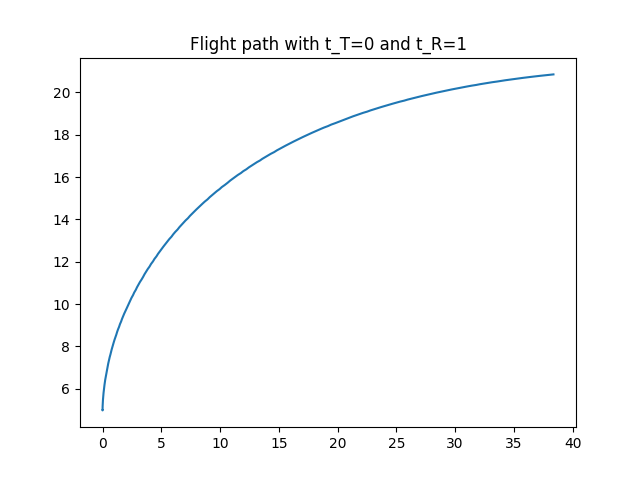
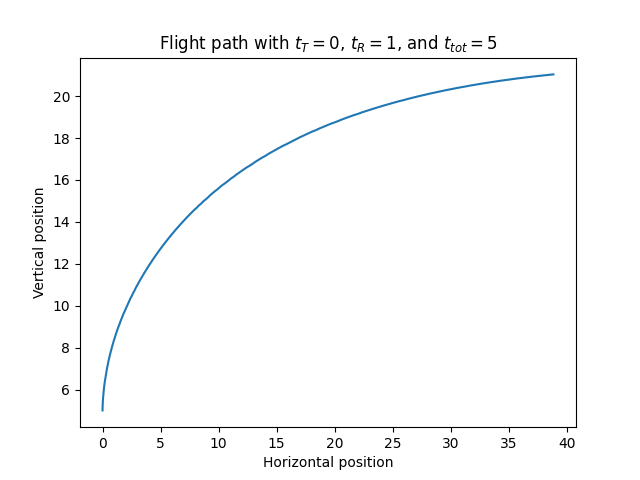
Make flight simulation runner reusable
Also make plot labels cleaner

diff --git a/airsim/flight_data.py b/airsim/flight_data.py
@@ -53,80 +53,88 @@ MAX_THRUST = 1.0
 # Note: min thrust to overcome gravity: 0.58 in simulation
 # Note: max thrust supported in airsim: 1
 DELTA_TIME = 0.01 # Crazyflie docs suggest tick rate of 100Hz
-startTime = time.time()
 
-# Lists for data collection
-tData = []
-zData = []
+def runSimulation(t_t, t_r, t_tot):
+    """
+    Reusable method to run a single flight trajectory
 
-# Hover to start position - see hover_land.py
-hoverPid = PID(
-    Kp=-0.4,
-    Ki=-1,
-    Kd=-1,
-    setpoint=Z_TARGET,
-    sample_time=DELTA_TIME,
-    output_limits=(MIN_THRUST, MAX_THRUST))
-currentHeight = getDroneZPosition(client)
-thrust = hoverPid(currentHeight) # Set initial thrust value
-print("Starting at z=%.3f" % currentHeight)
-while (time.time() - startTime < 20): # Run control loop for 20 seconds
-    tData.append(time.time() - startTime)
-    zData.append(currentHeight)
-    
-    client.moveByRollPitchYawThrottleAsync(0, 0, 0, thrust, DELTA_TIME).join()
+    Args:
+        t_t (float): Thrust switching time
+        t_r (float): Rotation switching time
+        t_tot (float): Total flight time
+    """
+    startTime = time.time()
+
+    # Lists for data collection
+    tData = []
+    zData = []
+
+    # Hover to start position - see hover_land.py
+    hoverPid = PID(
+        Kp=-0.4,
+        Ki=-1,
+        Kd=-1,
+        setpoint=Z_TARGET,
+        sample_time=DELTA_TIME,
+        output_limits=(MIN_THRUST, MAX_THRUST))
     currentHeight = getDroneZPosition(client)
-    thrust = hoverPid(currentHeight)
-currentHeight = getDroneZPosition(client)
-print("Hovering at z=%.3f" % currentHeight)
+    thrust = hoverPid(currentHeight) # Set initial thrust value
+    print("Starting at z=%.3f" % currentHeight)
+    while (time.time() - startTime < 20): # Run control loop for 20 seconds
+        tData.append(time.time() - startTime)
+        zData.append(currentHeight)
+        
+        client.moveByRollPitchYawThrottleAsync(0, 0, 0, thrust, DELTA_TIME).join()
+        currentHeight = getDroneZPosition(client)
+        thrust = hoverPid(currentHeight)
+    currentHeight = getDroneZPosition(client)
+    print("Hovering at z=%.3f" % currentHeight)
 
-# Test plotting
-# TODO: remove, probably
-plt.figure()
-plt.plot(tData, zData)
-plt.savefig("./local-figures/hover-data.png")
+    # ~~~~~~~~~~~~~~~~~~~~
 
-# ~~~~~~~~~~~~~~~~~~~~
-
-# Run flight sequence
-T_T = 0 # Thrust switching time
-T_R = 1 # Rotation switching time
-T_TOT = 5 # Total flight time
-ROT_SPEED = 1 # Rotation speed in rad/s # TODO: match to paper's assumptions?
-tData = []
-zData = []
-yData = []
-startTime = time.time()
-print("Starting flight sequence")
-currentTime = time.time() - startTime
-roll = 0 # Start with no roll
-while (currentTime < T_TOT):
-    # Data capture
-    tData.append(currentTime)
-    # Use -z so our final results use +z as the up direction
-    zData.append(-getDroneZPosition(client))
-    yData.append(getDroneYPosition(client))
-
-    # Set thrust and roll for next time segment
-    thrust = MIN_THRUST if (currentTime < T_T) else MAX_THRUST
-    roll = roll + ROT_SPEED * DELTA_TIME if (currentTime < T_R) else roll
-
-    # Move
-    # Use roll for rotation
-    client.moveByRollPitchYawThrottleAsync(roll, 0, 0, thrust, DELTA_TIME).join()
-
-    # Update time
+    # Run flight sequence
+    ROT_SPEED = 1 # Rotation speed in rad/s # TODO: match to paper's assumptions?
+    tData = []
+    zData = []
+    yData = []
+    startTime = time.time()
+    print("Starting flight sequence")
     currentTime = time.time() - startTime
-plt.figure()
-plt.plot(yData, zData)
-plt.title(f"Flight path with t_T={T_T} and t_R={T_R}")
-plt.xlabel("Horizontal position")
-plt.ylabel("Vertical position")
-plt.savefig("./local-figures/flight-data.png")
+    roll = 0 # Start with no roll
+    while (currentTime < t_tot):
+        # Data capture
+        tData.append(currentTime)
+        # Use -z so our final results use +z as the up direction
+        zData.append(-getDroneZPosition(client))
+        yData.append(getDroneYPosition(client))
+
+        # Set thrust and roll for next time segment
+        thrust = MIN_THRUST if (currentTime < t_t) else MAX_THRUST
+        roll = roll + ROT_SPEED * DELTA_TIME if (currentTime < t_r) else roll
+
+        # Move
+        # Use roll for rotation
+        client.moveByRollPitchYawThrottleAsync(roll, 0, 0, thrust, DELTA_TIME).join()
+
+        # Update time
+        currentTime = time.time() - startTime
+    plt.plot(yData, zData)
+    plt.title(f"Flight path with $t_T={t_t}$, $t_R={t_r}$, and $t_{{tot}}={t_tot}$")
+    plt.xlabel("Horizontal position")
+    plt.ylabel("Vertical position")
+    plt.savefig("./local-figures/flight-data.png")
+
+    # Wait and then reset simulator
+    time.sleep(2)
+    print("Resetting simulator...")
+    client.reset()
+
+# Run a one-shot simulation
+runSimulation(0, 1, 5)
 
 # Wait for a short time, then clean up simulator
 time.sleep(5)
-print("Cleaning up and resetting simulator...")
+print("Cleaning up simulator...")
 client.armDisarm(False)
 client.reset()
 client.enableApiControl(False)
